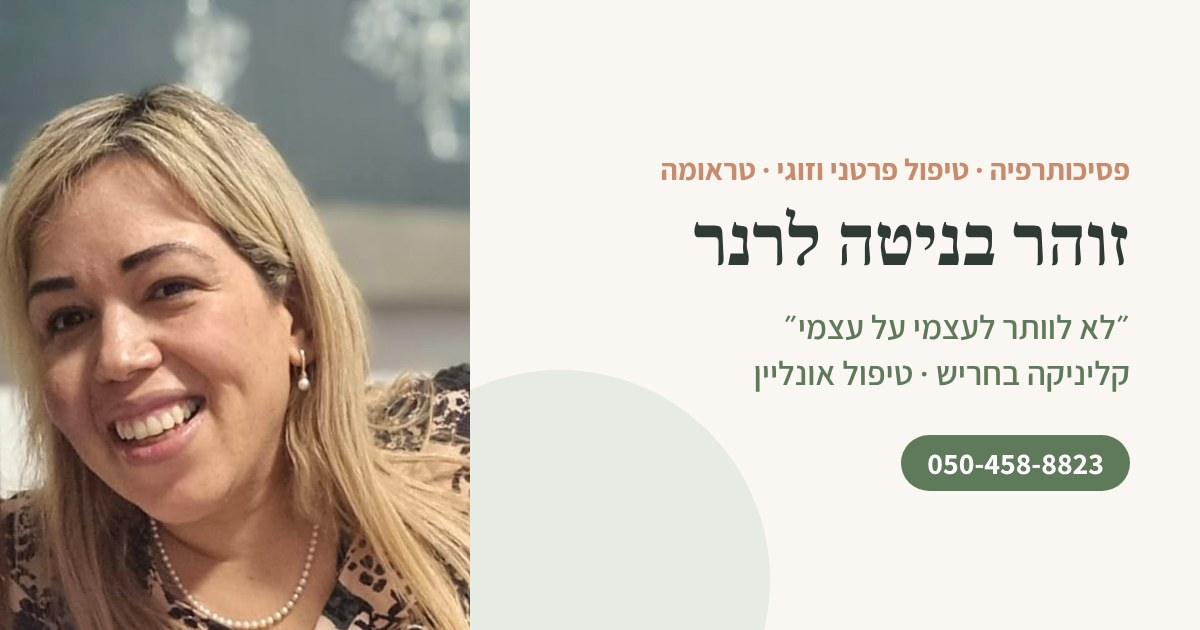
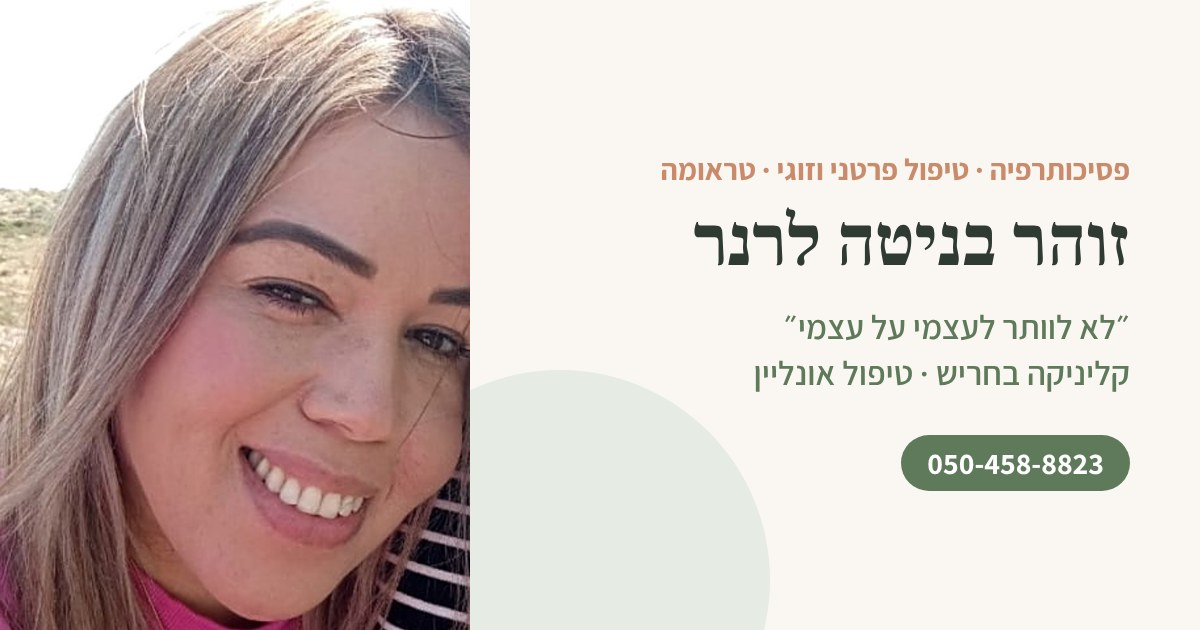
Replace profile photo with new cropped portrait
Claude-Session: https://claude.ai/code/session_01WmBaWoNTLfbF8absVF7B5X

diff --git a/website/styles.css b/website/styles.css
@@ -96,7 +96,7 @@ p + p { margin-top: .9rem; }
 /* אודות */
 .about { display: grid; grid-template-columns: 1fr 1.4fr; gap: 4rem; align-items: center; }
 .about-photo img, .photo-placeholder {
-  aspect-ratio: 4 / 5; width: 100%; object-fit: cover;
+  aspect-ratio: 3 / 4; width: 100%; object-fit: cover;
   border-radius: 200px 200px var(--radius) var(--radius);
   box-shadow: var(--shadow);
 }
